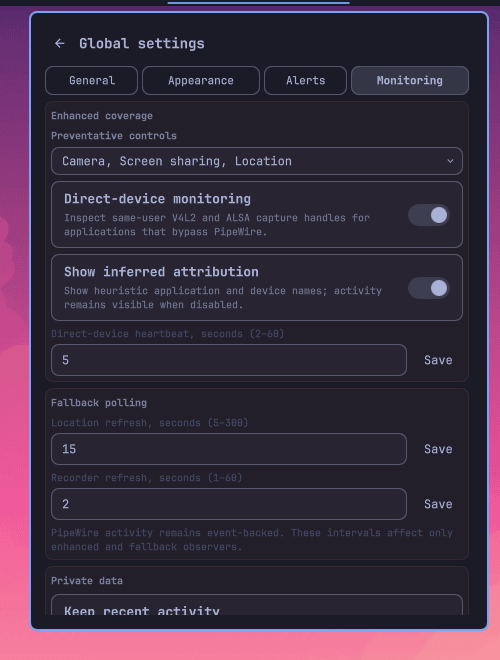
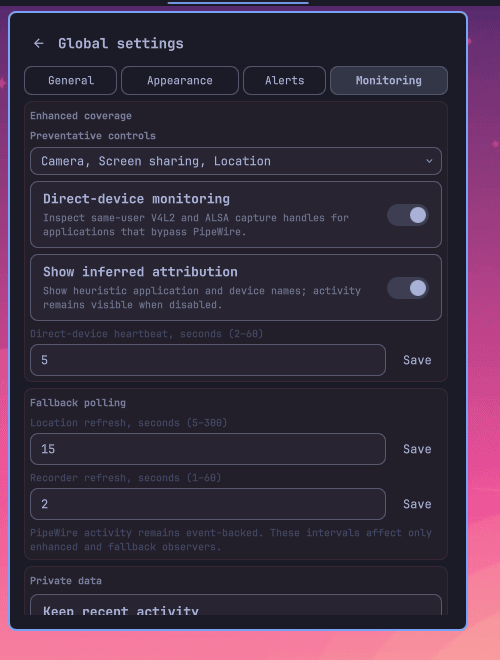
docs: refresh release screenshots

diff --git a/tests/site.test.js b/tests/site.test.js
@@ -24,7 +24,9 @@ assert.deepEqual(pngDimensions("docs/preview.png"), [500, 500]);
 assert.deepEqual(pngDimensions("docs/appearance.png"), [500, 660]);
 for (const page of ["general", "alerts", "monitoring"])
   assert.deepEqual(pngDimensions(`docs/${page}.png`), [500, 660]);
-assert.deepEqual(pngDimensions("docs/bar.png"), [182, 50]);
+const barDimensions = pngDimensions("docs/bar.png");
+assert.equal(barDimensions[1], 50, "bar capture must retain the live horizontal-bar height");
+assert.ok(barDimensions[0] > 0 && barDimensions[0] <= 500, "bar capture must be a tightly bounded live widget footprint");
 assert.equal(new Set(
   ["general", "appearance", "alerts", "monitoring"]
     .map((page) => fs.readFileSync(path.join(root, `docs/${page}.png`)).toString("base64"))
@@ -37,6 +39,17 @@ assert.match(html, /src="appearance\.png"[^>]+width="500" height="660"/);
 for (const image of ["bar", "general", "appearance", "alerts", "monitoring"]) {
   assert.match(html, new RegExp(`src="${image}\\.png"`));
   assert.match(fs.readFileSync(path.join(root, "README.md"), "utf8"), new RegExp(`docs/${image}\\.png`));
+}
+
+const source = new JSDOM(html).window.document;
+for (const image of ["preview", "bar", "general", "appearance", "alerts", "monitoring"]) {
+  const element = source.querySelector(`#screenshots img[src="${image}.png"]`);
+  assert.ok(element, `Pages gallery must showcase ${image}.png`);
+  assert.deepEqual(
+    [Number(element.getAttribute("width")), Number(element.getAttribute("height"))],
+    pngDimensions(`docs/${image}.png`),
+    `Pages dimensions must match ${image}.png`
+  );
 }
 
 let copied = "";

diff --git a/docs/index.html b/docs/index.html
@@ -825,8 +825,8 @@
               <figcaption>Distinct state pills, session context, and direct controls keep activity understandable without opening settings.</figcaption>
             </figure>
             <figure class="screenshot-card bar-shot">
-              <img src="bar.png" alt="Privacy Devices indicators occupying their exact center-bar footprint" width="182" height="50" loading="lazy" decoding="async">
-              <figcaption>The bar view uses only its measured 182-pixel widget footprint in this configuration; neighboring widgets are not included.</figcaption>
+              <img src="bar.png" alt="Privacy Devices indicators occupying their exact center-bar footprint" width="141" height="50" loading="lazy" decoding="async">
+              <figcaption>The bar view uses only the widget's measured footprint for the pictured configuration; neighboring widgets are not included. Its width varies with enabled items and appearance settings.</figcaption>
             </figure>
             <figure class="screenshot-card">
               <img src="general.png" alt="General settings page" width="500" height="660" loading="lazy" decoding="async">
